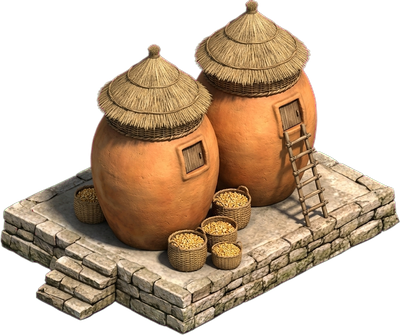
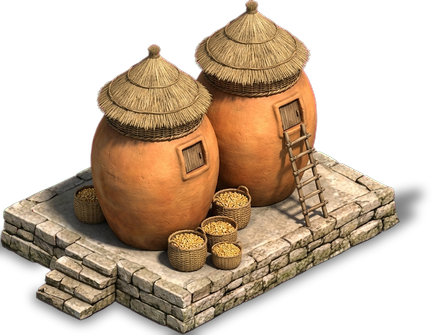
Title of Liberty: the battlefield gets its pictures (camps, war camp, Lamanite towers, walls, gate)
Phase 2 of finishing free battle (request 009). Gemini drew five pictures
through the n8n backup; the walls and shadows are drawn by code.

- Lamanite camps and the camp in Antionum: hide tents with feathers, a fire,
  spears and a drum. The 3 Nephi missions get a robbers' camp of red-dyed
  tents instead. The war camp: a palisade round a painted chieftain's tent.
  Both were drawn from a steeper angle than the map, so they're flattened to
  80% and centred on their plots.
- The Lamanites' watchtowers are their own: lashed logs and a hide roof.
- Walls: a bank of earth with sloped sides and a grassy top, lit or shaded by
  the way it runs, with sharpened pickets along the top once they're made
  (Alma 50:1-3). Gates: a timber gate on the wall's line, mirrored to suit.
- The hall, granary and stables cast a soft shadow like the older buildings.
- A camp's card no longer says "Robbers' camp ... 3 Nephi 4:16" everywhere:
  the Lamanite camps say what they are, Antionum quotes Alma 43:5, and the
  hint says to tear it down, not "tap him to fight".

Claude-Session: https://claude.ai/code/session_01Q4ES8mgC6R6KD4i9kHrmBw

diff --git a/liberty/ui.js b/liberty/ui.js
@@ -38,6 +38,11 @@ const IMG = {
   granary: new Image(),
   stables: new Image(),
   hall: new Image(),
+  lamaniteCamp: new Image(),
+  robbersCamp: new Image(),
+  warcamp: new Image(),
+  lamaniteTower: new Image(),
+  gate: new Image(),
   farm: new Image()
 };
 IMG.moroni.src = 'assets/moroni.png?v=13';
@@ -64,9 +69,14 @@ IMG.barracks.src = 'assets/barracks.png?v=13';
 IMG.tower.src = 'assets/tower.png?v=13';
 IMG.storehouse.src = 'assets/storehouse.png?v=13';
 IMG.armory.src = 'assets/armory.png?v=13';
-IMG.granary.src = 'assets/granary.png?v=1';      // and these: 007-buildings.md
-IMG.stables.src = 'assets/stables.png?v=1';
-IMG.hall.src = 'assets/hall.png?v=1';
+IMG.granary.src = 'assets/granary.png?v=2';      // and these: 007-buildings.md (with shadows since)
+IMG.stables.src = 'assets/stables.png?v=2';
+IMG.hall.src = 'assets/hall.png?v=2';
+IMG.lamaniteCamp.src = 'assets/lamanite_camp.png?v=1';   // and these: 009-battlefield.md
+IMG.robbersCamp.src = 'assets/robbers_camp.png?v=1';
+IMG.warcamp.src = 'assets/warcamp.png?v=1';
+IMG.lamaniteTower.src = 'assets/lamanite_tower.png?v=1';
+IMG.gate.src = 'assets/gate.png?v=1';
 IMG.farm.src = 'assets/farm.png?v=13';
                                 // the simulation's tick, as in the tests
   const $ = id => document.getElementById(id);
@@ -1128,7 +1138,14 @@ IMG.farm.src = 'assets/farm.png?v=13';
     granary: { cx: 200, by: 333, span: 397 },
     stables: { cx: 200, by: 318, span: 375 },
     hall: { cx: 200, by: 310, span: 400 },
+    lamaniteCamp: { cx: 210, by: 240, span: 419 },
+    robbersCamp: { cx: 210, by: 242, span: 418 },
+    warcamp: { cx: 210, by: 267, span: 419 },
+    lamaniteTower: { cx: 199, by: 461, span: 398 },
   };
+  // Which picture a building is drawn with: the Lamanites' watchtowers are their own; a camp is the robbers' in 3 Nephi, the Lamanites' elsewhere.
+  const pictureOf = b => b.type === 'tower' && b.team === 'r' ? 'lamaniteTower' : b.type === 'warcamp' ? 'warcamp'
+    : b.type === 'camp' ? (mission && mission.campaign === 'gidgiddoni' ? 'robbersCamp' : 'lamaniteCamp') : PICTURE[b.type];
   const PICTURE = { stronghold: 'stronghold', barracks: 'barracks', hall: 'hall', tower: 'tower', armory: 'armory', storehouse: 'storehouse', granary: 'granary', stables: 'stables' };
   const ready = img => img && img.complete && img.naturalWidth;
   // A building stands on flat ground just above the highest corner of its plot.
@@ -1176,19 +1193,24 @@ IMG.farm.src = 'assets/farm.png?v=13';
     const w = b.w * TILE, h = b.h * TILE;
     ctx.save();
     if (b.built < 1) ctx.globalAlpha = 0.55;
+    const key = pictureOf(b) || 'storehouse', sp = SPRITE[key], img = IMG[key];
+    const place = () => {                             // the picture, as wide as the plot, set on it by its front corner
+      const front = isoAt((b.tx + b.w) * TILE, (b.ty + b.h) * TILE, top), sc = (b.w + b.h) * TILE / sp.span;
+      ctx.drawImage(img, ix - sp.cx * sc, front.iy - sp.by * sc, img.naturalWidth * sc, img.naturalHeight * sc);
+    };
     if (b.def.wall != null) drawEarthwork(b);
-    else if (b.type === 'camp' || b.type === 'warcamp') drawCamp(b, now);
+    else if (b.type === 'camp' || b.type === 'warcamp') {
+      if (ready(img)) { place(); if (b.type === 'warcamp') banner(ix + 4, iy - h * 0.9, '#9f1239', now, b.id); }
+      else drawCamp(b, now);
+    }
     else if (b.type === 'village') drawVillage(b);
     else if (b.type === 'farm') {
       // the granary hut from the farm's picture, on its tilled plot
       if (ready(IMG.farm)) ctx.drawImage(IMG.farm, 50, 14, 58, 66, ix - 26, iy - 52, 52, 59);
-    } else {
-      const sp = SPRITE[PICTURE[b.type]] || SPRITE.storehouse, img = IMG[PICTURE[b.type]] || IMG.storehouse;
-      const front = isoAt((b.tx + b.w) * TILE, (b.ty + b.h) * TILE, top), sc = (b.w + b.h) * TILE / sp.span;
-      if (ready(img)) ctx.drawImage(img, ix - sp.cx * sc, front.iy - sp.by * sc, img.naturalWidth * sc, img.naturalHeight * sc);
-      else { ctx.fillStyle = '#bfa97c'; ctx.fillRect(ix - w * 0.5, iy - h, w, h); }
+    } else if (sp && ready(img)) {
+      place();
       if (b.type === 'hall') banner(ix + 6, iy - h * 1.2, '#d4a017', now, b.id);
-    }
+    } else { ctx.fillStyle = '#bfa97c'; ctx.fillRect(ix - w * 0.5, iy - h, w, h); }
     ctx.restore();
 
     if (selected) {
@@ -1212,40 +1234,56 @@ IMG.farm.src = 'assets/farm.png?v=13';
     ctx.strokeStyle = 'rgba(0,0,0,.35)'; ctx.lineWidth = 0.8; ctx.stroke();
   }
 
-  // Earthworks (Alma 50:1–3): a ridge of earth joined to the ones beside it, with pickets on top once they're made. A gate is a timber door in the ridge.
+  // Earthworks (Alma 50:1–3): a bank of earth with grass on top, joined to the banks beside it, and a frame of pickets
+  // along its top once they're made. A gate is a timber gate standing across the bank, along its line.
   function drawEarthwork(b) {
-    const cxw = (b.tx + 0.5) * TILE, cyw = (b.ty + 0.5) * TILE;
+    const cx = (b.tx + 0.5) * TILE, cy = (b.ty + 0.5) * TILE;
     const links = [[1, 0], [-1, 0], [0, 1], [0, -1]].filter(([dx, dy]) => {
       const x = b.tx + dx, y = b.ty + dy;
       if (!W.inBounds(x, y)) return false;
       const n = W.ents.get(W.occ[y * MAP_W + x]);
       return n && n.kind === 'building' && n.def.wall != null && !n.dead;
     });
-    const up = (wx, wy, k) => isoAt(wx, wy, heightAt(wx, wy) + k);
-    const ends = links.map(([dx, dy]) => [cxw + dx * TILE * 0.5, cyw + dy * TILE * 0.5]);
-    const ridge = (k, width, color, ox = 0, oy = 0) => {
-      const c0 = up(cxw, cyw, k);
-      ctx.strokeStyle = color; ctx.lineWidth = width;
-      ctx.beginPath();
-      if (!ends.length) { ctx.moveTo(c0.ix - 6 + ox, c0.iy + oy); ctx.lineTo(c0.ix + 6 + ox, c0.iy + oy); }
-      for (const [ex, ey] of ends) { const e = up(ex, ey, k); ctx.moveTo(c0.ix + ox, c0.iy + oy); ctx.lineTo(e.ix + ox, e.iy + oy); }
-      ctx.stroke();
+    const H = 2.3, FOOT = 0.42 * TILE, TOP = 0.09 * TILE;          // how high (in levels), and how wide at the foot and at the top (half-widths)
+    const P = (wx, wy, k) => isoPt(wx / TILE, wy / TILE, heightAt(wx, wy) + k);
+    // One stretch of bank from the middle of this square to its edge. Light comes from the upper left:
+    // a bank running along x shows its lit side; one running along y, its shaded side.
+    const stretch = (dx, dy) => {
+      const ex = cx + dx * TILE * 0.5, ey = cy + dy * TILE * 0.5, along = dy === 0;
+      const side = w => along ? [0, w] : [w, 0];
+      const [fx, fy] = side(FOOT), [tx, ty] = side(TOP);
+      fillPoly([P(cx - fx, cy - fy, 0), P(ex - fx, ey - fy, 0), P(ex - tx, ey - ty, H), P(cx - tx, cy - ty, H)], '#4a3421');
+      fillPoly([P(cx + fx, cy + fy, 0), P(ex + fx, ey + fy, 0), P(ex + tx, ey + ty, H), P(cx + tx, cy + ty, H)], along ? '#9a7447' : '#6b4d2e');
+      fillPoly([P(cx - tx, cy - ty, H), P(ex - tx, ey - ty, H), P(ex + tx, ey + ty, H), P(cx + tx, cy + ty, H)], '#86a04c');
+      // the foot of the near side, where the bank meets the ground, a little darker
+      const a = P(cx + fx, cy + fy, 0), z = P(ex + fx, ey + fy, 0);
+      ctx.strokeStyle = 'rgba(40, 26, 12, .45)'; ctx.lineWidth = 1.5; ctx.beginPath(); ctx.moveTo(a[0], a[1]); ctx.lineTo(z[0], z[1]); ctx.stroke();
     };
-    ctx.lineCap = 'round'; ctx.lineJoin = 'round';
-    ridge(0, 15, 'rgba(20, 14, 6, .3)', 5, 2);
-    ridge(0.35, 14, '#6e5132');
-    ridge(0.8, 10, '#957046');
-    ridge(1.1, 4, '#c19a62', -1.5, -1);
+    // The middle of the square: a heap where the stretches meet (or the whole of a bank on its own).
+    const heap = () => {
+      fillPoly([P(cx + FOOT, cy - FOOT, 0), P(cx + FOOT, cy + FOOT, 0), P(cx + TOP, cy + TOP, H), P(cx + TOP, cy - TOP, H)], '#6b4d2e');
+      fillPoly([P(cx - FOOT, cy + FOOT, 0), P(cx + FOOT, cy + FOOT, 0), P(cx + TOP, cy + TOP, H), P(cx - TOP, cy + TOP, H)], '#9a7447');
+      fillPoly([P(cx - TOP, cy - TOP, H), P(cx + TOP, cy - TOP, H), P(cx + TOP, cy + TOP, H), P(cx - TOP, cy + TOP, H)], '#86a04c');
+    };
+    for (const [dx, dy] of links.filter(([dx, dy]) => dx + dy < 0)) stretch(dx, dy);       // the stretches going away from us first
+    heap();
+    for (const [dx, dy] of links.filter(([dx, dy]) => dx + dy > 0)) stretch(dx, dy);
     if (b.type === 'gate') {
-      const c0 = up(cxw, cyw, 0.4);
-      ctx.fillStyle = '#5a3c22'; ctx.fillRect(c0.ix - 7, c0.iy - 10, 14, 11);
-      ctx.fillStyle = '#8a5f37'; ctx.fillRect(c0.ix - 6, c0.iy - 9, 5.5, 9); ctx.fillRect(c0.ix + 0.5, c0.iy - 9, 5.5, 9);
+      // the gate's picture runs along y (lower left to upper right on the screen); a bank along x gets it mirrored
+      if (!ready(IMG.gate)) return;
+      const alongX = links.some(([dx, dy]) => dy === 0) && !links.some(([dx, dy]) => dx === 0);
+      const g = P(cx, cy, 0), wd = TILE * 1.75, ht = wd * IMG.gate.naturalHeight / IMG.gate.naturalWidth;
+      ctx.save(); ctx.translate(g[0], g[1] + TILE * 0.36);
+      if (alongX) ctx.scale(-1, 1);
+      ctx.drawImage(IMG.gate, -wd / 2, -ht, wd, ht);
+      ctx.restore();
     } else if (W.researched.pickets) {
-      const stakes = ends.length ? ends.flatMap(([ex, ey]) => [0.2, 0.55, 0.9].map(t => [cxw + (ex - cxw) * t, cyw + (ey - cyw) * t])) : [[cxw, cyw]];
-      for (const [sx, sy] of stakes) {
-        const p = up(sx, sy, 1.1);
-        ctx.strokeStyle = '#5c3e22'; ctx.lineWidth = 2; ctx.beginPath(); ctx.moveTo(p.ix, p.iy); ctx.lineTo(p.ix, p.iy - 8); ctx.stroke();
-        ctx.fillStyle = '#d2b07c'; ctx.fillRect(p.ix - 1, p.iy - 9, 2, 1.5);
+      // a frame of pickets along the top of the bank, sharpened
+      const line = links.length ? links.flatMap(([dx, dy]) => [0.12, 0.42, 0.72, 0.98].map(t => [cx + dx * TILE * 0.5 * t, cy + dy * TILE * 0.5 * t])) : [[cx, cy]];
+      for (const [sx, sy] of line.sort((a, b) => a[0] + a[1] - b[0] - b[1])) {
+        const p = P(sx, sy, H);
+        ctx.strokeStyle = '#5c3e22'; ctx.lineWidth = 2.4; ctx.beginPath(); ctx.moveTo(p[0], p[1] + 1); ctx.lineTo(p[0], p[1] - 9); ctx.stroke();
+        ctx.fillStyle = '#d2b07c'; ctx.beginPath(); ctx.moveTo(p[0] - 1.2, p[1] - 9); ctx.lineTo(p[0], p[1] - 12); ctx.lineTo(p[0] + 1.2, p[1] - 9); ctx.fill();
       }
     }
   }
@@ -1752,7 +1790,8 @@ IMG.farm.src = 'assets/farm.png?v=13';
   const DRAWN_AS = { lehi: 'lehi', gidgiddoni: 'gidgiddoni', robber: 'robber', robberArcher: 'robber_archer', giddianhi: 'robber_chief', zemnarihah: 'robber_chief',
     slinger: 'lamanite_slinger', amalekite: 'lamanite_captain', zoramite: 'lamanite_captain', zerahemnah: 'zerahemnah' };
   function picOf(e) {
-    const c = CAMEO_MAP[(e.kind === 'unit' ? 'train:' : 'build:') + e.type] || (e.type === 'stronghold' && 'assets/cameo_stronghold.png?v=1');
+    const own = e.kind === 'building' && e.team !== 'p' && IMG[pictureOf(e)];
+    const c = own ? own.src : CAMEO_MAP[(e.kind === 'unit' ? 'train:' : 'build:') + e.type] || (e.type === 'stronghold' && 'assets/cameo_stronghold.png?v=1');
     if (c) return `<img class="pic" src="${c}" alt="">`;
     if (DRAWN_AS[e.type]) return `<img class="pic" src="assets/${DRAWN_AS[e.type]}.png?v=1" alt="">`;
     if (e.kind === 'unit' && (e.type === 'lamanite' || e.def.foe)) return `<img class="pic" src="assets/cameo_lamanite.png?v=10" alt="">`;
@@ -1766,7 +1805,7 @@ IMG.farm.src = 'assets/farm.png?v=13';
       const doing = e.kind === 'unit' ? ({ gather: 'Gathering ' + (e.order.res || ''), build: 'Building', attack: 'Fighting', move: 'Marching', idle: 'Waiting for orders' }[e.order.type] || '') : e.built < 1 ? 'Being built: ' + Math.floor(e.built * 100) + '%' : '';
       const pic = picOf(e);
       return `${pic}<div${pic ? '' : ' style="grid-column: 1 / -1"'}><h3>${esc(e.name && e.kind === 'building' ? e.name : d.name)}</h3>${bar}${doing ? `<div class="doing">${esc(doing)}</div>` : ''}</div>` +
-        (d.about ? `<p class="about">${esc(d.about)}</p>` : '');
+        (e.about || d.about ? `<p class="about">${esc(e.about || d.about)}</p>` : '');
     }
     const count = {};
     for (const e of ents) count[e.def.name] = (count[e.def.name] || 0) + 1;
@@ -1829,6 +1868,7 @@ IMG.farm.src = 'assets/farm.png?v=13';
       if (b.type === 'village') return `<div class="note">${b.state === 'waiting' ? 'Send a soldier or worker here. When the proclamation reaches ' + esc(b.name) + ', its people march to Zarahemla.' : 'Its people have gone.'}</div>`;
       if (b.team === 'x') return `<div class="note">He gave himself up (3 Nephi 4:27).</div>`;
       if (b.def.prophet) return `<div class="note">${esc(b.def.about)}</div>`;
+      if (b.kind === 'building') return `<div class="note">${b.untouchable ? 'Too strong to tear down.' : 'Choose soldiers, then tap it to tear it down.'}</div>`;
       return `<div class="note">${esc(b.def.about || (b.def.leader ? 'A leader of the robbers.' : 'A Gadianton robber.'))} Choose soldiers, then tap him to fight.</div>`;
     }
     const units = ents.filter(e => e.kind === 'unit');
@@ -1864,7 +1904,7 @@ IMG.farm.src = 'assets/farm.png?v=13';
       h += `<div class="queue">Training: ${b.queue.map((x, i) => `<span${i ? '' : ` style="--p:${p.toFixed(0)}%"`}>${esc(UNITS[x.type].name)}</span>`).join('')}</div>`;
     }
     if (b.def.trains) h += `<div class="note">${b.rally ? 'New ones go to the rally point.' : 'Tap the ground to set where new ones go.'}</div>`;
-    return h || `<div class="note">${esc(b.def.about || '')}</div>`;
+    return h || `<div class="note">${esc(b.about || b.def.about || '')}</div>`;
   }
   $('cmds').addEventListener('click', e => {
     const btn = e.target.closest('[data-cmd]');

diff --git a/liberty/missions.js b/liberty/missions.js
@@ -527,7 +527,8 @@
       for (let i = 0; i < 4; i++) put('archer', J.x - 1 + i, J.y + 10);
       this.alma = W.addUnit('alma', 'n', center(SD.ALMA.x), center(SD.ALMA.y), { untouchable: true });
       // Zerahemnah's armies in Antionum, "more than double the number of the Nephites" (Alma 43:51).
-      this.camp = W.addBuilding('camp', 'r', SD.ANTIONUM.x, SD.ANTIONUM.y, true, { untouchable: true });
+      this.camp = W.addBuilding('camp', 'r', SD.ANTIONUM.x, SD.ANTIONUM.y, true, { untouchable: true, name: 'Lamanite camp in Antionum',
+        about: 'The Lamanites "came into the land of Antionum, which is the land of the Zoramites; and a man by the name of Zerahemnah was their leader" (Alma 43:5).' });
       this.hostList = [['zerahemnah', 1], ['amalekite', 2], ['zoramite', 2], ['lamanite', 19], ['slinger', 8]];
       this.hostTotal = this.hostList.reduce((a, [, n]) => a + n, 0);
       this.host = [];
@@ -857,7 +858,7 @@
       for (let i = 0; i < 4; i++) put('worker', S0.x + i, S0.y + 5);
       put('spearman', S0.x + 5, S0.y); put('spearman', S0.x + 6, S0.y + 1); put('nslinger', S0.x + 5, S0.y + 2);
       this.warcamp = W.addBuilding('warcamp', 'r', FR.WARCAMP.x, FR.WARCAMP.y, true);
-      this.camps = FR.CAMPS.map(c => W.addBuilding('camp', 'r', c.x, c.y, true, { name: 'Lamanite camp' }));
+      this.camps = FR.CAMPS.map(c => W.addBuilding('camp', 'r', c.x, c.y, true, { name: 'Lamanite camp', about: 'Lamanite warriors gather here to march on your city.' }));
       const guard = (home, list) => { let k = 0; for (const [type, n] of list) for (let i = 0; i < n; i++, k++) put(type, home.tx + (k % 4), home.ty + home.h + Math.floor(k / 4), 'r', { mode: 'guard', home }); };
       this.guardList = [['lamanite', Math.ceil(L.guards * 0.6)], ['slinger', Math.floor(L.guards * 0.3)], ['amalekite', 1], ['zoramite', L.stars > 1 ? 1 : 0]];
       guard(this.warcamp, this.guardList);

diff --git a/liberty/index.html b/liberty/index.html
@@ -336,8 +336,8 @@
 <script src="multi.js?v=15"></script>
 <script src="data.js?v=17"></script>
 <script src="sim.js?v=16"></script>
-<script src="missions.js?v=16"></script>
+<script src="missions.js?v=17"></script>
 <script src="scripture.js?v=15"></script>
-<script src="ui.js?v=26"></script>
+<script src="ui.js?v=27"></script>
 </body>
 </html>

diff --git a/liberty/art/requests/009-battlefield.md b/liberty/art/requests/009-battlefield.md
@@ -1,0 +1,52 @@
+# 009 · The battlefield: camps, a war camp, Lamanite watchtowers, walls and a gate
+
+**Status: done** (phase 2 of finishing free battle). All five pictures were
+made with Gemini through Blake's n8n backup: 5 billed to the Merit3D Gemini
+account, all usable on the first try.
+
+## What it's for
+
+In free battle you tear down three Lamanite camps and their war camp. Those,
+and the robbers' camps in 3 Nephi, were drawn by code: flat triangle tents. The
+Lamanites' watchtowers used the Nephite watchtower's picture. Walls were a
+ridge of stacked lines that read as a fallen log, and a gate was a small box.
+
+## The pictures
+
+- **`lamanite_camp.png`** (3 × 3): three hide tents with feathers on their
+  poles, a fire, a rack of spears and bows, and a drum. It's used for the
+  Lamanite camps in free battle and the camp in Antionum (Alma 43:5).
+  - Gemini drew it on a white page with a magenta diamond for ground, so
+    the white was turned to magenta before the cut-out.
+- **`robbers_camp.png`** (3 × 3): red-dyed hide tents, a fire, a rack of
+  cimeters and bows, and stolen sacks and jars. It's used for the camps in
+  the 3 Nephi missions.
+- **`warcamp.png`** (4 × 4): a palisade of sharpened stakes round a painted
+  chieftain's tent hung with feathers, smaller tents, a fire, racks and a war
+  drum. The game still adds its waving red banner.
+- **`lamanite_tower.png`** (2 × 2): lashed unpeeled logs, a hide roof and
+  feathers, on an earth mound ringed with stakes.
+- **`gate.png`**: a timber gate on a low mound, running lower left to upper
+  right. On a wall that runs the other way, it's drawn mirrored.
+
+Gemini drew the three camps from a steeper angle than the game's map, so they
+are flattened to 80% of their height and centred on their plots. Flattening
+them all the way would have made the tents look stubby.
+
+## Drawn by code
+
+- **Walls:** a bank of earth with sloped sides and a grassy top, about 18
+  pixels high. A bank running one way shows its lit side, one running the
+  other way its shaded side. Once "Ridges of earth and pickets" is made, a
+  row of sharpened pickets runs along the top (Alma 50:1–3).
+- **Shadows:** the hall, granary and stables now cast a soft shadow to the
+  right, like the older buildings. The shadow is worked out from each
+  picture's own shape.
+
+## Fixed along the way
+
+The camps' card said "Robbers' camp … the siege round about the city
+(3 Nephi 4:16)" everywhere. Now:
+- the Lamanite camps say so;
+- the camp in Antionum quotes Alma 43:5;
+- the hint under a camp says to tear it down, not "tap him to fight".
